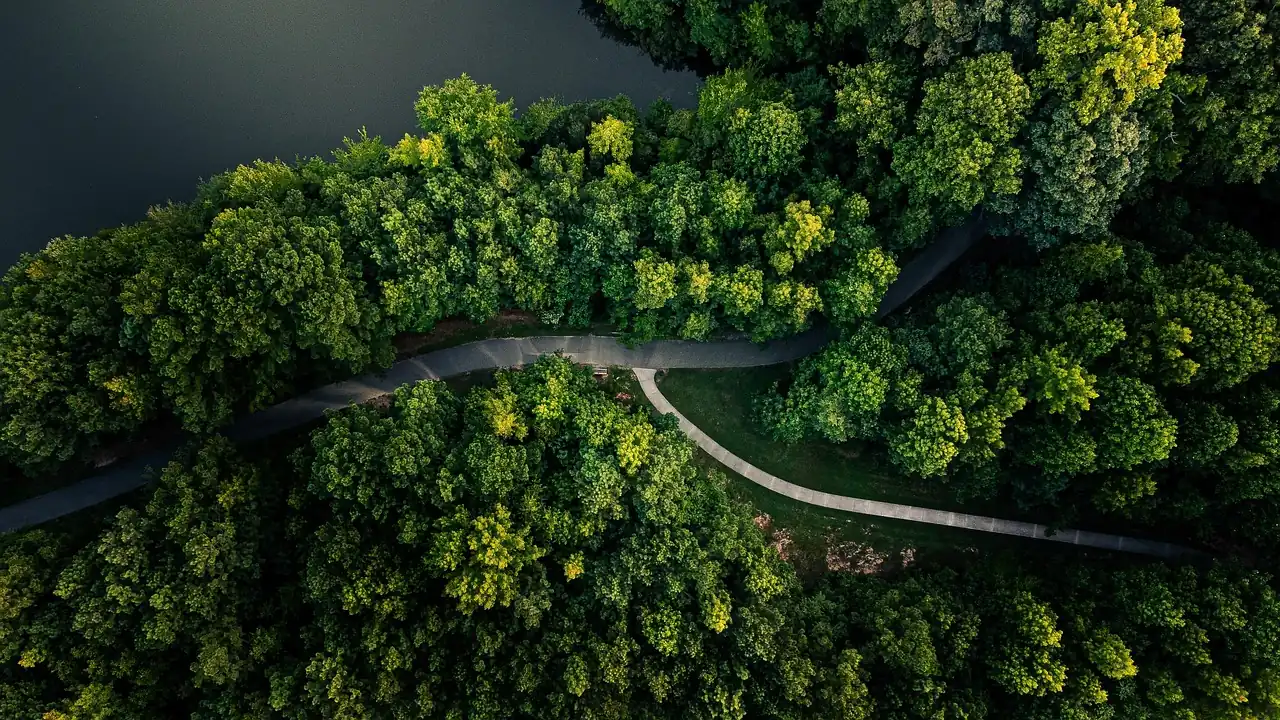
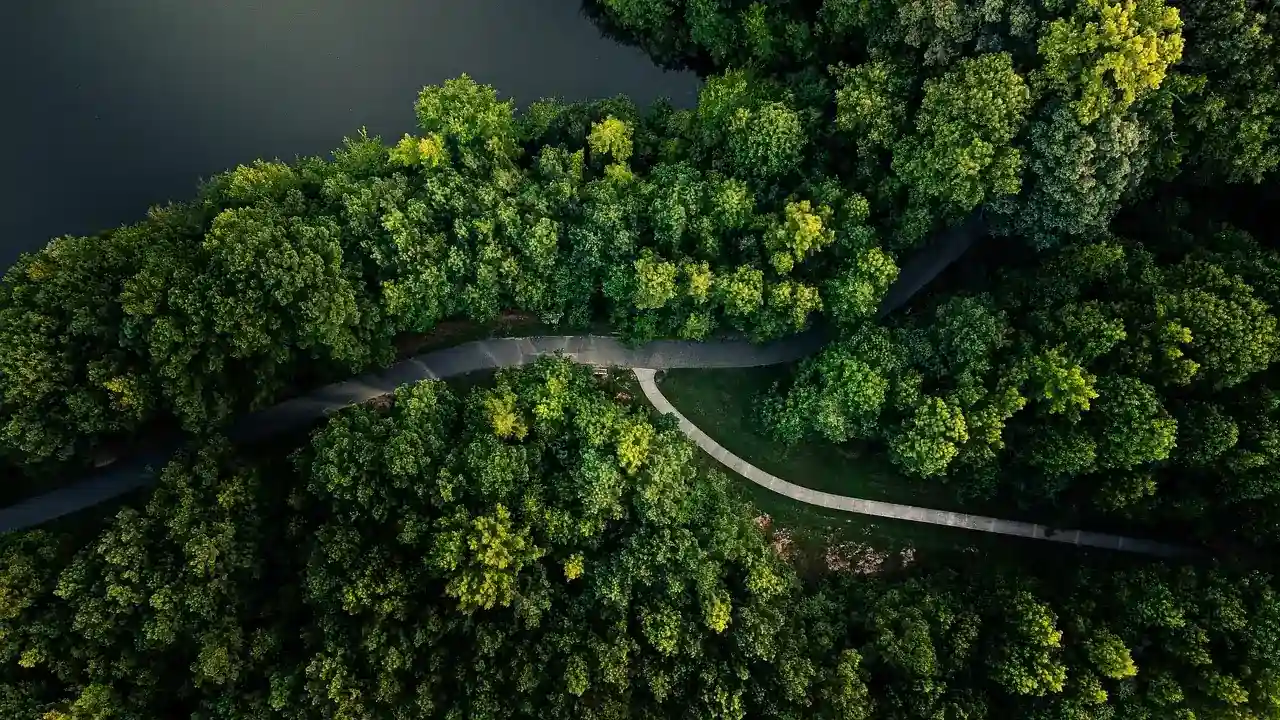
more translations and optimizations

diff --git a/index.html b/index.html
@@ -7,8 +7,7 @@
         <link rel="stylesheet" href="css/main.css">
         <link rel="preconnect" href="https://fonts.googleapis.com">
         <link rel="preconnect" href="https://fonts.gstatic.com" crossorigin>
-        <link href="https://fonts.googleapis.com/css2?family=Inika:wght@400;700&display=swap" rel="stylesheet">
-        <link href="https://fonts.googleapis.com/css2?family=Inika&family=Inter:ital,opsz,wght@0,14..32,100..900;1,14..32,100..900&display=swap" rel="stylesheet">
+        <link href="https://fonts.googleapis.com/css2?family=Inter:ital,opsz,wght@0,14..32,100..900;1,14..32,100..900&display=swap" rel="stylesheet">
         <meta name="description" content="Home - GreenEnergy Solutions, your company for a sustainable future." />
     </head>
     <body>
@@ -23,7 +22,7 @@
         </header>
         <div class="banner" role="banner">
             <h1 id="catchphrase">A Sustainable Future</h1>
-            <h3>GreenEnergy Solutions</h3>
+            <img src="assets/images/GreenEnergy-Solutions.svg" alt="GreenEnergy Solutions">
             <div class="banner-card">
                 <img
                     srcset="assets/images/jwvein-windmill-128.webp 480w, assets/images/jwvein-windmill-256.webp 490w"
@@ -35,7 +34,7 @@
                 <div>
                     <h4 id="Q2-26-title-top">Getting ready for summer</h4>
                     <p id="Q2-26-sub-top">Q2 2026 report</p>
-                    <img src="assets/images/arrow-up-right-svgrepo-com.svg" alt="" draggable="false">
+                    <img src="assets/icons/arrow-up-right.svg" alt="" draggable="false">
                 </div>
             </div>
             <div class="banner-gradient"></div>
@@ -57,23 +56,35 @@
                 <div>
                     <h4 id="Q2-26-title">Getting ready for summer</h4>
                     <p id="Q2-26-sub">Q2 2026 report</p>
-                    <img src="assets/images/arrow-up-right-svgrepo-com.svg" alt="" draggable="false">
+                    <img src="assets/icons/arrow-up-right.svg" alt="" draggable="false">
                 </div>
             </div>
             <div class="newscard">
-                <img src="assets/images/kapa65-leaves-580369.jpg" alt="" draggable="false">
+                <img
+                    srcset="assets/images/kapa65-leaves-580369-128.webp 480w, assets/images/kapa65-leaves-580369-256.webp 490w"
+                    sizes="(width <= 400px) 400px,
+                        400px"
+                    src="assets/images/kapa65-leaves-580369-256.webp"
+                    draggable="false"
+                    alt="Frozen leaf" />
                 <div>
                     <h4 id="Q1-26-title">Wintergreen</h4>
                     <p id="Q1-26-sub">Q1 2026 report</p>
-                    <img src="assets/images/arrow-up-right-svgrepo-com.svg" alt="" draggable="false">
+                    <img src="assets/icons/arrow-up-right.svg" alt="" draggable="false">
                 </div>
             </div>
             <div class="newscard">
-                <img src="assets/images/katerinavulcova-leaves-4574860.jpg" alt="" draggable="false">
+                <img
+                    srcset="assets/images/katerinavulcova-leaves-4574860-128.webp 480w, assets/images/katerinavulcova-leaves-4574860-256.webp 490w"
+                    sizes="(width <= 400px) 400px,
+                        400px"
+                    src="assets/images/katerinavulcova-leaves-4574860-256.webp"
+                    draggable="false"
+                    alt="Frozen leaf" />
                 <div>
                     <h4 id="Q4-25-title">Autumn Colors</h4>
                     <p id="Q4-25-sub">Q4 2025 report</p>
-                    <img src="assets/images/arrow-up-right-svgrepo-com.svg" alt="" draggable="false">
+                    <img src="assets/icons/arrow-up-right.svg" alt="" draggable="false">
                 </div>
             </div>
         </div>

diff --git a/contact.html b/contact.html
@@ -12,15 +12,15 @@
         <header>
             <button id="themeButton" aria-label="Change theme"><img src="assets/icons/paint-roller.svg" alt="" draggable="false"></button>
             <div class="navigation" role="navigation">
-                <a href="index.html">HOME</a>
-                <a href="latest.html">NEWS</a>
-                <a href="contact.html" class="currentTab">CONTACT</a>
+                <a href="index.html" id="hometab">HOME</a>
+                <a href="latest.html" id="newstab">NEWS</a>
+                <a href="contact.html" class="currentTab" id="contacttab">CONTACT</a>
             </div>
-            <button id="langButton" aria-label="Change language"><img src="assets/icons/languages.svg" alt="" draggable="false"></button>
+            <button id="langButton" aria-label="Change language"><img src="assets/icons/languages.svg" alt="" draggable="false" onclick="changeLanguage()"></button>
         </header>
         <div class="contact" role="main">
             <div>
-                <h2>Get in touch</h2>
+                <h2 id="contact-tagline">Get in touch</h2>
                 <span><a href="mailto:123@example.com"><img src="assets/icons/letter.svg" alt="mail"> <span>123@example.com</span></a></span><br>
                 <span><a href="tel:1234567890"><img src="assets/icons/phone.svg" alt="mail"> <span>123-456 78 90</span></a></span><br>
                 <br>
@@ -33,15 +33,15 @@
             <div>
                 <div class="col1">
                     <ul>
-                        <li><a href="index.html">Home</a></li>
-                        <li><a href="latest.html">News</a></li>
-                        <li><a href="contact.html">Contact</a></li>
+                        <li><a href="index.html" id="hometab-footer">Home</a></li>
+                        <li><a href="latest.html" id="newstab-footer">News</a></li>
+                        <li><a href="contact.html" id="contacttab-footer">Contact</a></li>
                     </ul>
                 </div>
                 <div class="col2">
                     <ul>
                         <li><a href="https://facebook.com/">Facebook</a></li>
-                        <li><a href="https://se.linkedin.com/">LinkedIn</a></li>
+                        <li><a href="https://linkedin.com/">LinkedIn</a></li>
                         <li><a href="https://youtube.com/">YouTube</a></li>
                     </ul>
                 </div>
@@ -53,14 +53,14 @@
                     </ul>
                 </div>
             </div>
-            <a href="attribution.html" target="_blank">Icon Attribution</a>
+            <a href="attribution.html" target="_blank" id="icon-attribution-link">Icon Attribution</a>
             <p>Copyright © 2026 GreenEnergy Solutions</p>
         </footer>
     </body>
     <script>
         function copyAdress() {
             navigator.clipboard.writeText("Riksgatan 1, 100 12 Stockholm, Sweden");
-            alert("Adress copied to clipboard");
         }
     </script>
+    <script src="script/translations.js"></script>
 </html>

diff --git a/script/translations.js b/script/translations.js
@@ -15,7 +15,12 @@ async function langInit(langpicked) {
     let langarray = await loadTxtFile(langfiletofetch);
     let langidarray = await loadTxtFile("assets/translations/ids.txt");
     for (let i = 0; i < langarray.length; i++) {
-        document.getElementById(langidarray[i]).innerHTML = langarray[i];
+        try{
+            document.getElementById(langidarray[i]).innerHTML = langarray[i];
+        } catch(e){
+            
+        }
+        
     }
 }
 async function loadTxtFile(filetofetch) {

diff --git a/css/main.css b/css/main.css
@@ -73,6 +73,11 @@ header > button:active {
 .banner > h1 {
     margin-top: 0px;
 }
+.banner > img {
+    height: 30px;
+    margin-top: -30px;
+    margin-bottom: 10px;
+}
 .banner-gradient {
     position: absolute;
     bottom: 0px;
